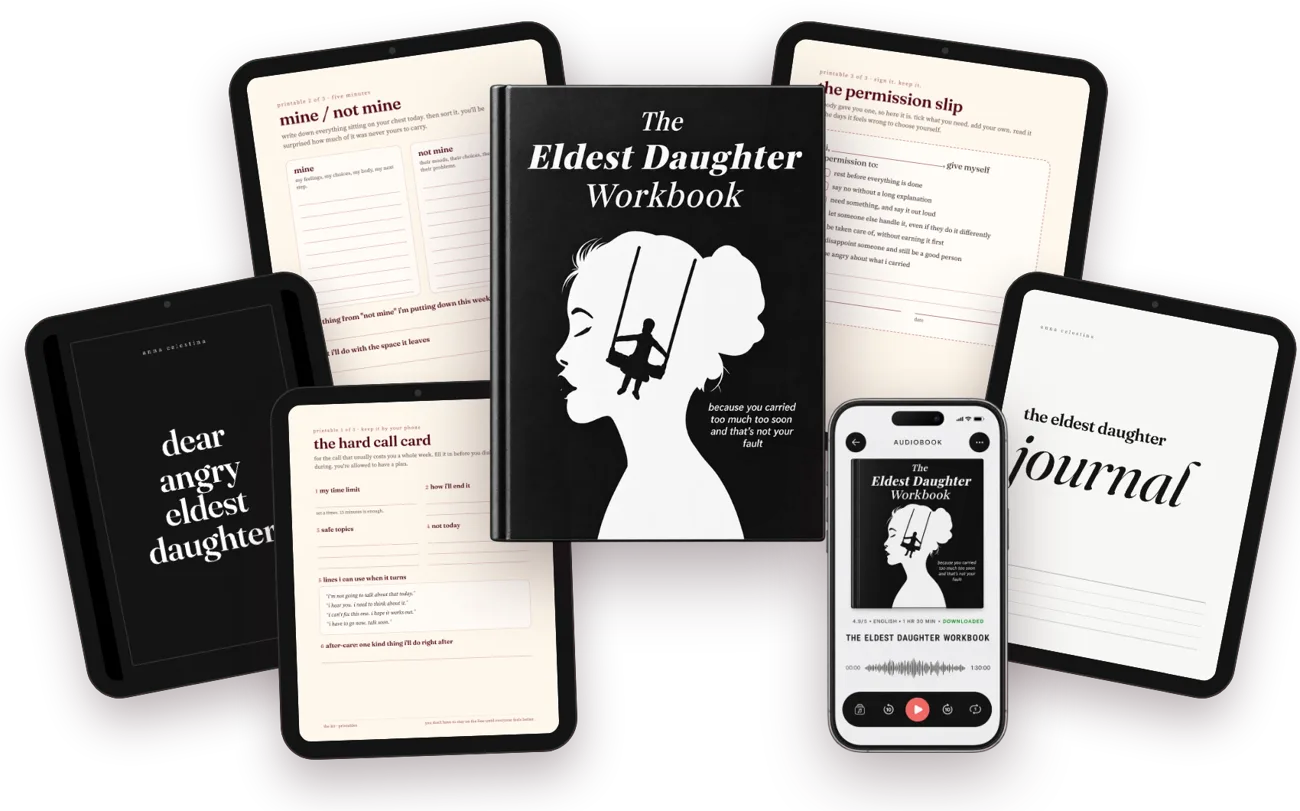
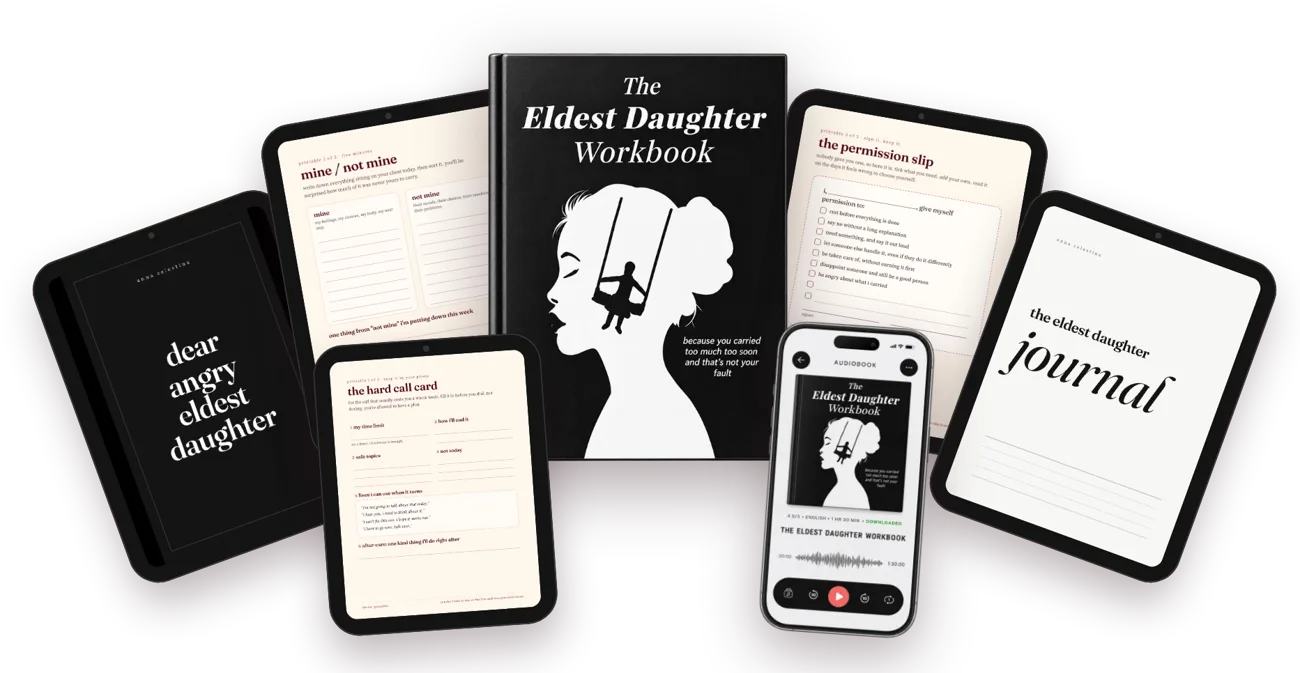
Kit image: organized symmetric layout
Claude-Session: https://claude.ai/code/session_01LL1mB2P2VRvoL1n8mHXFs8

Changed region(s): [[0.0308, 0.0, 1.0, 0.9985], [0.0, 0.4056, 0.1538, 0.9049]]

diff --git a/kit/index.html b/kit/index.html
@@ -277,7 +277,7 @@ body.co-open{position:fixed;left:0;right:0;width:100%;overflow:hidden}
   </header>
 
   <figure class="lead-fig">
-    <img src="/images/kit/kit-mockup.webp" alt="the kit: the workbook, the audiobook, the poems, the journal and the printables" width="1300" height="811" fetchpriority="high" decoding="async">
+    <img src="/images/kit/kit-mockup.webp" alt="the kit: the workbook, the audiobook, the poems, the journal and the printables" width="1300" height="673" fetchpriority="high" decoding="async">
     <figcaption>the kit: workbook, audiobook, poems, journal and 3 printables</figcaption>
   </figure>
 
@@ -287,7 +287,7 @@ body.co-open{position:fixed;left:0;right:0;width:100%;overflow:hidden}
   <p class="big">that isn't who you are. it's what you learned.</p>
 
   <div class="strip">
-    <img src="/images/kit/kit-mockup.webp" alt="" width="1300" height="811" loading="lazy" decoding="async">
+    <img src="/images/kit/kit-mockup.webp" alt="" width="1300" height="673" loading="lazy" decoding="async">
     <div><b>the complete kit · $27</b><span>workbook, audiobook (free today), poems, journal and printables. instant download.</span><a href="#offer">see what's inside ↓</a></div>
   </div>
 
@@ -368,7 +368,7 @@ body.co-open{position:fixed;left:0;right:0;width:100%;overflow:hidden}
   <div class="vtotal"><span>everything separately <s>$43.97</s></span><span>today, together <b>$27</b></span></div>
 
   <div class="offer" id="offer">
-    <img class="kitimg" src="/images/kit/kit-mockup.webp" alt="the complete kit" width="1300" height="811" loading="lazy" decoding="async">
+    <img class="kitimg" src="/images/kit/kit-mockup.webp" alt="the complete kit" width="1300" height="673" loading="lazy" decoding="async">
     <h3>the complete kit</h3>
     <p class="stars"><b>★★★★★</b> 4.8 · 600 reviews</p>
     <ul class="incl">
@@ -443,7 +443,7 @@ body.co-open{position:fixed;left:0;right:0;width:100%;overflow:hidden}
   <div class="wide center">
     <h2>you spent years becoming who everyone else needed.</h2>
     <p class="sub">it's your turn now.</p>
-    <img src="/images/kit/kit-mockup.webp" alt="the complete kit" width="1300" height="811" loading="lazy" decoding="async">
+    <img src="/images/kit/kit-mockup.webp" alt="the complete kit" width="1300" height="673" loading="lazy" decoding="async">
     <div class="price"><span class="was">everything separately: <s>$43.97</s></span><span class="now">$27<small>today</small></span></div>
     <a class="cta" href="#offer">get the complete kit →</a>
     <p class="cta-note" style="color:#F2DED6">instant download · 14-day money-back guarantee</p>
